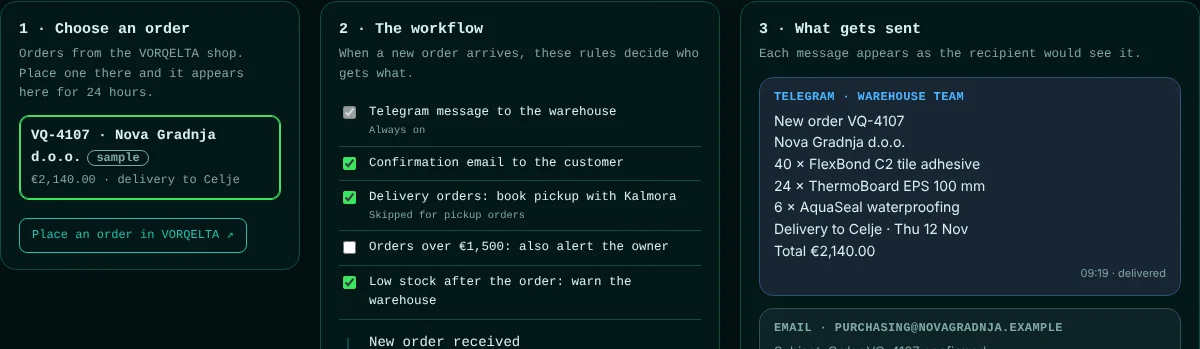
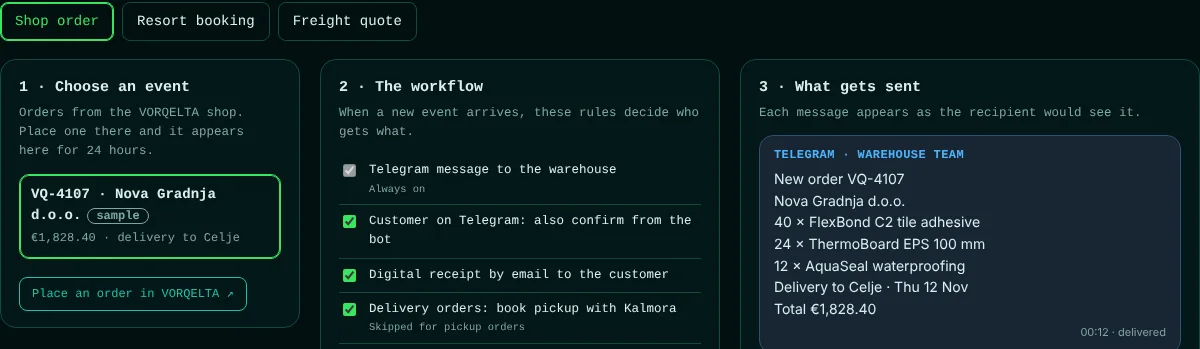
Smart Notifications: three event sources, website bookings and quotes in Connected

diff --git a/demos/order-notify/index.html b/demos/order-notify/index.html
@@ -1,8 +1,8 @@
 <!doctype html>
 <html lang="en"><head><meta charset="utf-8">
 <meta name="viewport" content="width=device-width,initial-scale=1,viewport-fit=cover">
-<title>Order → Notify · Concept demo · NB Digital Labs</title>
-<meta name="description" content="Concept demo of a business workflow: a new order triggers a Telegram message to the warehouse, an email to the customer and a pickup request to the freight partner. Fictional company, built by NB Digital Labs.">
+<title>Smart Notifications · Concept demo · NB Digital Labs</title>
+<meta name="description" content="Concept demo of event-based notifications: a new order, booking or quote request triggers the right messages by itself. Fictional companies, built by NB Digital Labs.">
 <style>
 :root{--bg:#02100f;--panel:#041a19;--line:#0f4a47;--txt:#d7f1ed;--dim:#7fa8a3;--g:#39e75f;--t:#19c3b0;--c:#22d3ee;--mono:"JetBrains Mono","SF Mono",Consolas,"Liberation Mono",monospace;--sans:system-ui,-apple-system,"Segoe UI",Roboto,Helvetica,Arial,sans-serif}
 *{box-sizing:border-box}html,body{margin:0}
@@ -28,57 +28,80 @@ ol.st{list-style:none;margin:0;padding:0;display:grid;gap:10px}ol.st li{color:va
 .note{color:var(--dim);font-size:12px;margin-top:20px}.foot{margin-top:24px}
 button.go{font:inherit;background:transparent;cursor:pointer}.out.tc{border-color:#2b5278;background:#182533}.out.tc h4{color:#4cb4ff}.ll>div{white-space:pre-wrap}
 .rc{background:#fff;color:#1c2226;border-radius:8px;padding:14px 16px;font-size:13px}.rh{display:flex;justify-content:space-between;gap:8px;flex-wrap:wrap;border-bottom:2px solid #D7263D;padding-bottom:6px;margin-bottom:8px}.rh span,.rm{color:#5c6770;white-space:pre-wrap}.rc table{width:100%;border-collapse:collapse;margin:8px 0}.rc th,.rc td{text-align:left;padding:4px 4px;border-bottom:1px solid #e4e8eb;font-size:12.5px}.rc td:nth-child(n+2),.rc th:nth-child(n+2){text-align:right;white-space:nowrap}.rt{text-align:right;margin:6px 0}.rt b{font-size:15px}.rf{margin-top:8px;color:#8a949b;font-size:11.5px}
+.tabs{display:flex;gap:8px;margin-bottom:18px;flex-wrap:wrap}.tabs button{background:transparent;border:1px solid var(--line);color:var(--txt);font:inherit;padding:8px 14px;border-radius:8px;cursor:pointer}.tabs button[aria-pressed=true]{border-color:var(--g);color:var(--g);box-shadow:0 0 0 1px var(--g) inset}
+.out.sc{border-style:dashed;border-color:#4a6a6c;background:#0b1c1e}.out.sc h4{color:var(--dim)}.kv{display:flex;justify-content:space-between;gap:10px;padding:3px 0;font-size:12.5px}.kv span{color:#5c6770}.kv b{text-align:right;font-weight:500}
 @media(prefers-reduced-motion:reduce){*{transition:none!important;animation:none!important}}
 </style></head>
 <body>
-<div class="bar"><span>Concept demo · fictional company · all data is sample data</span><span><a href="../../work.html">← Back to NB Digital Labs</a> · <a href="../vorqelta/">VORQELTA ↗</a> · <a href="../kalmora/">Kalmora ↗</a></span></div>
+<div class="bar"><span>Concept demo · fictional company · all data is sample data</span><span><a href="../../work.html">← Back to NB Digital Labs</a> · <a href="../aurevia/">Aurevia ↗</a> · <a href="../vorqelta/">VORQELTA ↗</a> · <a href="../kalmora/">Kalmora ↗</a></span></div>
 <div class="wrap">
-<h1>Order → Notify</h1>
-<p class="sub">A new order in the shop sets off a chain of messages by itself: the warehouse, the customer and the freight partner are informed in seconds, with no one typing anything.</p>
+<h1>Smart Notifications</h1>
+<p class="sub">Something happens in one of the systems and the right people are informed by themselves. Pick an event type and watch the same engine run a different set of rules: a shop order, a resort booking or a freight quote request.</p>
+<div class="tabs" role="group" aria-label="Event type"><button data-s="shop" aria-pressed="true">Shop order</button><button data-s="resort" aria-pressed="false">Resort booking</button><button data-s="freight" aria-pressed="false">Freight quote</button></div>
 <div class="grid">
-<div><section class="box"><h2>1 · Choose an order</h2><p>Orders from the VORQELTA shop. Place one there and it appears here for 24 hours.</p><div id="orders"></div><a class="go" href="../vorqelta/">Place an order in VORQELTA ↗</a></section></div>
-<div><section class="box"><h2>2 · The workflow</h2><p>When a new order arrives, these rules decide who gets what.</p>
-<label class="rule"><input type="checkbox" checked disabled><span>Telegram message to the warehouse<small>Always on</small></span></label>
-<label class="rule"><input type="checkbox" id="r-tc" checked><span>Customer on Telegram: also confirm from the bot</span></label>
-<label class="rule"><input type="checkbox" id="r-em" checked><span>Digital receipt by email to the customer</span></label>
-<label class="rule"><input type="checkbox" id="r-km" checked><span>Delivery orders: book pickup with Kalmora<small>Skipped for pickup orders</small></span></label>
-<label class="rule"><input type="checkbox" id="r-own" checked><span>Orders over €1,500: also alert the owner</span></label>
-<label class="rule"><input type="checkbox" id="r-low" checked><span>Low stock after the order: warn the warehouse</span></label>
+<div><section class="box"><h2>1 · Choose an event</h2><p id="p1b"></p><div id="orders"></div><a class="go" id="pl" href="#"></a></section></div>
+<div><section class="box"><h2>2 · The workflow</h2><p>When a new event arrives, these rules decide who gets what.</p>
+<div id="rules"></div>
 <div class="flow"><div class="rail"></div><div class="dot" id="dot"></div><ol class="st" id="steps"></ol></div><div class="log" id="log"></div>
 <button class="go" id="replay">↻ Replay</button></section></div>
 <div><section class="box"><h2>3 · What gets sent</h2><p>Each message appears as the recipient would see it.</p><div id="outs"></div></section></div>
 </div>
-<p class="note">Concept demo. Messages are simulated, nothing is sent and orders are kept for 24 hours in this browser only. VORQELTA is a fictional company.</p>
+<p class="note">Concept demo. Messages are simulated, nothing is sent and events are kept for 24 hours in this browser only. Aurevia, VORQELTA and Kalmora are fictional companies.</p>
 <div class="foot"><a class="go" href="../../work.html">← Go back</a></div>
 </div>
 <script>
-const $=s=>document.querySelector(s),eur=n=>'€'+Number(n).toLocaleString('en-US',{minimumFractionDigits:2,maximumFractionDigits:2});
-let FEED=null;try{FEED=JSON.parse(localStorage.getItem('vq-feed')||'null')}catch(e){}
-const SAMPLE={ref:'VQ-4107',co:'Nova Gradnja d.o.o.',em:'purchasing@novagradnja.example',nm:'Marko',city:'Celje',mode:'delivery',when:'Thu 12 Nov',total:1828.4,sub:1828.4,fee:0,km:'KM-3102',pal:3,lines:['40 × FlexBond C2 tile adhesive','24 × ThermoBoard EPS 100 mm','12 × AquaSeal waterproofing'],items:[{n:'FlexBond C2 tile adhesive',q:40,p:9.8,lt:392,deal:0},{n:'ThermoBoard EPS 100 mm',q:24,p:26.5,lt:572.4,deal:10},{n:'AquaSeal waterproofing',q:12,p:72,lt:864,deal:0}],t:Date.now(),sample:true};
-let orders=((FEED&&FEED.orders)||[]).filter(o=>Date.now()-o.t<864e5).slice(0,6);if(!orders.length)orders=[SAMPLE];
-const LOW=(FEED&&FEED.low)||['AquaSeal waterproofing · 22 left'];let cur=0,runId=0;
-const R=()=>({tc:$('#r-tc').checked,em:$('#r-em').checked,km:$('#r-km').checked,own:$('#r-own').checked,low:$('#r-low').checked});
+const $=s=>document.querySelector(s),eur=n=>'€'+Number(n).toLocaleString('en-US',{minimumFractionDigits:2,maximumFractionDigits:2}),H24=864e5;
+const J=k=>{try{return JSON.parse(localStorage.getItem(k)||'null')}catch(e){return null}};
+const FEED=J('vq-feed'),LOW=(FEED&&FEED.low)||['AquaSeal waterproofing · 22 left'];
 const hm=()=>new Date().toLocaleTimeString('en-GB',{hour:'2-digit',minute:'2-digit'});
 function el(tag,cls,txt){const e=document.createElement(tag);if(cls)e.className=cls;if(txt!=null)e.textContent=txt;return e}
-function msgs(o){const r=R(),m=[],ho=(o.mode==='pickup'?'Pickup':'Delivery to '+o.city)+' · '+o.when;
- m.push({k:'tg',step:'Telegram sent to the warehouse',h:'Telegram · Warehouse team',pre:'New order '+o.ref+'\n'+o.co,lines:o.lines,post:ho+'\nTotal '+eur(o.total)});
- if(r.tc)m.push({k:'tc',step:'Customer confirmed by the bot',h:'Telegram · Customer, from the bot',pre:'Hi '+(o.nm||'there')+'! Your order '+o.ref+' is confirmed.',lines:o.lines,post:ho+'\nTotal '+eur(o.total)+' excl. VAT\nThe full receipt is in your email.',link:o.mode==='delivery'});
- if(r.em)m.push({k:'em',step:'Digital receipt emailed to the customer',h:'Email · '+(o.em||'customer'),subj:'Your receipt for order '+o.ref});
- if(r.km&&o.mode==='delivery')m.push({k:'km',step:'Pickup booked with Kalmora ('+(o.km||'KM-…')+')',h:'Kalmora · Pickup request',b:'Reference '+(o.km||'KM-…')+'\nLjubljana → '+o.city+'\n'+(o.pal||1)+' pallet'+((o.pal||1)>1?'s':'')+' · building materials\nVORQELTA order '+o.ref,link:true});
- if(r.own&&o.total>=1500)m.push({k:'own',step:'Owner alerted (large order)',h:'Telegram · Owner',b:'Large order '+o.ref+': '+eur(o.total)+' from '+o.co});
- if(r.low&&LOW.length)m.push({k:'low',step:'Low stock warning sent',h:'Telegram · Warehouse team',b:'Low stock after '+o.ref+':\n'+LOW.slice(0,3).join('\n')});
- return m}
-function drawOrders(){const box=$('#orders');box.textContent='';orders.forEach((o,i)=>{const b=el('button','ord');b.setAttribute('aria-pressed',i===cur);const t=el('b',null,o.ref+' · '+o.co);if(o.sample){t.append(el('span','tag s','sample'))}b.append(t,el('span',null,eur(o.total)+' · '+(o.mode==='pickup'?'pickup':'delivery to '+o.city)));b.onclick=()=>{cur=i;drawOrders();play()};box.append(b)})}
-function play(){const id=++runId,o=orders[cur],ms=msgs(o),st=$('#steps'),outs=$('#outs'),dot=$('#dot');st.textContent='';outs.textContent='';$('#log').textContent='';dot.classList.remove('on');
- const seq=[{step:'New order received',d:o.ref+' · '+eur(o.total)},{step:'Rules checked',d:ms.length+' of 6 rules matched'}].concat(ms.map(m=>({step:m.step,m})));
- seq.forEach((s,i)=>setTimeout(()=>{if(id!==runId)return;const li=el('li',null,s.step);li.append(el('span','d',s.d||'sent '+hm()));st.append(li);dot.classList.add('on');dot.style.top=(li.offsetTop+4)+'px';const l=el('div');l.append(el('b',null,hm()+' '),document.createTextNode(s.step));$('#log').prepend(l);
-  if(s.m)out(s.m)},i*750+200))}
-function lineList(lines,max){const w=el('div','ll'),rest=el('div');rest.style.display='none';lines.forEach((l,i)=>(i<max?w:rest).append(el('div',null,l)));if(lines.length>max){const b=el('button','go','Show all '+lines.length+' lines');b.onclick=()=>{const open=rest.style.display==='none';rest.style.display=open?'block':'none';b.textContent=open?'Show fewer':'Show all '+lines.length+' lines'};w.append(rest,b)}return w}
+const iso=n=>{const d=new Date();d.setDate(d.getDate()+n);return d.toISOString().slice(0,10)};
+const SAMPLE={shop:{ref:'VQ-4107',co:'Nova Gradnja d.o.o.',em:'purchasing@novagradnja.example',nm:'Marko',city:'Celje',mode:'delivery',when:'Thu 12 Nov',total:1828.4,sub:1828.4,fee:0,km:'KM-3102',pal:3,lines:['40 × FlexBond C2 tile adhesive','24 × ThermoBoard EPS 100 mm','12 × AquaSeal waterproofing'],items:[{n:'FlexBond C2 tile adhesive',q:40,p:9.8,lt:392,deal:0},{n:'ThermoBoard EPS 100 mm',q:24,p:26.5,lt:572.4,deal:10},{n:'AquaSeal waterproofing',q:12,p:72,lt:864,deal:0}],t:Date.now(),sample:true},
+ resort:{ref:'AUR-4821',name:'Ana Petrović',room:'Suite Vigna',dates:'This weekend',guests:'2 guests',ch:'Telegram',src:'bot',em:'ana@example.com',t:Date.now(),sample:true},
+ freight:{ref:'KM-Q-45321',co:'Hribar Trans d.o.o.',nm:'Marko',svc:'Road freight',fr:'Belgrade',to:'Munich',dt:iso(3),sl:'09:00–11:00',p:1850,t:Date.now(),sample:true}};
+const META={shop:{h:'Orders from the VORQELTA shop. Place one there and it appears here for 24 hours.',a:['Place an order in VORQELTA ↗','../vorqelta/']},resort:{h:'Bookings from the Aurevia concierge and the Aurevia website form, kept for 24 hours.',a:['Book at Aurevia ↗','../aurevia-concierge/']},freight:{h:'Quote requests from the Kalmora website, kept for 24 hours.',a:['Request a quote on Kalmora ↗','../kalmora/']}};
+const RULES={shop:[['tg','Telegram message to the warehouse','Always on',1],['tc','Customer on Telegram: also confirm from the bot'],['em','Digital receipt by email to the customer'],['km','Delivery orders: book pickup with Kalmora','Skipped for pickup orders'],['own','Orders over €1,500: also alert the owner'],['low','Low stock after the order: warn the warehouse']],
+ resort:[['rc','Telegram message to reception','Always on',1],['gb','Booked in the chat: confirm from the bot','Skipped for website form bookings'],['em','Booking confirmation by email to the guest'],['hk','Family or large stays: heads-up to housekeeping','Casetta Famiglia or 5+ guests'],['rm','Reminder the day before arrival','Scheduled message']],
+ freight:[['dp','Telegram message to the dispatcher','Always on',1],['em','Request received: email to the customer'],['ur','Pickup within 2 days: mark as urgent'],['cs','Cross-border route: alert the customs desk','Checks the route'],['fu','Follow-up if the quote is not accepted in 24 h','Scheduled message']]};
+const ON={shop:{},resort:{},freight:{}},CT={belgrade:'RS','novi sad':'RS',niš:'RS',munich:'DE',berlin:'DE',hamburg:'DE',vienna:'AT',graz:'AT',ljubljana:'SI',maribor:'SI',zagreb:'HR',prague:'CZ',thessaloniki:'GR',athens:'GR'};
+let src='shop',cur=0,runId=0,orders=[];
+const on=id=>{const r=RULES[src].find(x=>x[0]===id);return r&&(r[3]||ON[src][id]!==false)};
+function load(){const L=src==='shop'?((FEED&&FEED.orders)||[]).filter(o=>Date.now()-o.t<H24).slice(0,6):src==='resort'?(J('av-events')||[]).filter(e=>Date.now()-e.t<H24).slice(0,6):(J('kalmora_demo_requests')||[]).filter(q=>q.t&&Date.now()-q.t<H24).slice(0,6);orders=L.length?L:[SAMPLE[src]]}
+function lineList(lines,max){const w=el('div','ll'),rest=el('div');rest.style.display='none';lines.forEach((l,i)=>(i<max?w:rest).append(el('div',null,l)));if(lines.length>max){const b=el('button','go','Show all '+lines.length+' lines');b.onclick=()=>{const o=rest.style.display==='none';rest.style.display=o?'block':'none';b.textContent=o?'Show fewer':'Show all '+lines.length+' lines'};w.append(rest,b)}return w}
+function card(title,sub,meta,rows,foot){const d=el('div','rc'),hd=el('div','rh');hd.append(el('b',null,title),el('span',null,sub));d.append(hd,el('div','rm',meta));rows.forEach(r=>{const x=el('div','kv');x.append(el('span',null,r[0]),el('b',null,r[1]));d.append(x)});d.append(el('div','rf',foot||'Demo only · not a fiscal document.'));return d}
 function receipt(o){const d=el('div','rc'),hd=el('div','rh');hd.append(el('b',null,'VORQELTA Building Materials'),el('span',null,'Ljubljana · digital receipt'));d.append(hd,el('div','rm','Order '+o.ref+' · '+new Date(o.t).toLocaleDateString('en-GB',{day:'numeric',month:'short',year:'numeric'})+'\nBilled to: '+o.co+(o.nm?' · '+o.nm:'')));
  const t=el('table');t.innerHTML='<tr><th>Item</th><th>Qty</th><th>Price</th><th>Amount</th></tr>';(o.items||o.lines.map(l=>({n:l,q:'',p:null,lt:null,deal:0}))).forEach(i=>{const tr=el('tr');[i.n+(i.deal?' (−'+i.deal+'%)':''),i.q,i.p!=null?eur(i.p):'',i.lt!=null?eur(i.lt):''].forEach(v=>tr.append(el('td',null,v)));t.append(tr)});d.append(t);
  const tt=el('div','rt');if(o.sub!=null)tt.append(el('div',null,'Goods '+eur(o.sub)),el('div',null,(o.mode==='pickup'?'Pickup':'Delivery')+' '+(o.fee?eur(o.fee):'Free')));tt.append(el('b',null,'Total excl. VAT '+eur(o.total)));d.append(tt,el('div','rm',(o.mode==='pickup'?'Pickup':'Delivery to '+o.city)+' · '+o.when),el('div','rf','Demo only · not a fiscal document. VAT is applied on the final invoice.'));return d}
-function out(m){const d=el('div','out '+m.k);d.append(el('h4',null,m.h));
- if(m.k==='em'){d.append(el('div','h','Subject: '+m.subj),receipt(orders[cur]))}else{if(m.pre)d.append(el('pre',null,m.pre));if(m.lines)d.append(lineList(m.lines,4));if(m.post)d.append(el('pre',null,m.post));if(m.b)d.append(el('pre',null,m.b))}
- if(m.link){const a=el('a','go','Track order in Kalmora ↗');a.href='../kalmora/#track';a.onclick=()=>{try{localStorage.setItem('km-prefill',orders[cur].km||'')}catch(e){}};d.append(a)}d.append(el('span','tm',hm()+' · delivered'));$('#outs').append(d)}
-['em','tc','km','own','low'].forEach(k=>$('#r-'+k).onchange=play);$('#replay').onclick=play;drawOrders();play();
+function msgsShop(o){const m=[],ho=(o.mode==='pickup'?'Pickup':'Delivery to '+o.city)+' · '+o.when;
+ m.push({k:'tg',step:'Telegram sent to the warehouse',h:'Telegram · Warehouse team',pre:'New order '+o.ref+'\n'+o.co,lines:o.lines,post:ho+'\nTotal '+eur(o.total)});
+ if(on('tc'))m.push({k:'tc',step:'Customer confirmed by the bot',h:'Telegram · Customer, from the bot',pre:'Hi '+(o.nm||'there')+'! Your order '+o.ref+' is confirmed.',lines:o.lines,post:ho+'\nTotal '+eur(o.total)+' excl. VAT\nThe full receipt is in your email.',link:o.mode==='delivery'});
+ if(on('em'))m.push({k:'em',step:'Digital receipt emailed to the customer',h:'Email · '+(o.em||'customer'),subj:'Your receipt for order '+o.ref,card:()=>receipt(o)});
+ if(on('km')&&o.mode==='delivery')m.push({k:'km',step:'Pickup booked with Kalmora ('+(o.km||'KM-…')+')',h:'Kalmora · Pickup request',b:'Reference '+(o.km||'KM-…')+'\nLjubljana → '+o.city+'\n'+(o.pal||1)+' pallet'+((o.pal||1)>1?'s':'')+' · building materials\nVORQELTA order '+o.ref,link:true});
+ if(on('own')&&o.total>=1500)m.push({k:'own',step:'Owner alerted (large order)',h:'Telegram · Owner',b:'Large order '+o.ref+': '+eur(o.total)+' from '+o.co});
+ if(on('low')&&LOW.length)m.push({k:'low',step:'Low stock warning sent',h:'Telegram · Warehouse team',b:'Low stock after '+o.ref+':\n'+LOW.slice(0,3).join('\n')});return m}
+function msgsResort(e){const m=[],via=e.src==='form'?'website form':e.ch,fn=(e.name||'guest').split(' ')[0],stay=e.room+' · '+e.dates+' · '+e.guests;
+ m.push({k:'tg',step:'Telegram sent to reception',h:'Telegram · Reception',b:'New booking '+e.ref+'\n'+e.name+'\n'+stay+'\nVia '+via});
+ if(on('gb')&&e.src!=='form')m.push({k:'tc',step:'Guest confirmed by the bot',h:e.ch+' · Guest, from the bot',b:'Hi '+fn+'! Your stay is booked.\nReference '+e.ref+'\n'+e.room+', '+e.dates+', '+e.guests+'\nCheck-in from 15:00. Reply here to change anything.'});
+ if(on('em'))m.push({k:'em',step:'Confirmation emailed to the guest',h:'Email · '+(e.em||'guest'),subj:'Your stay at Aurevia is confirmed · '+e.ref,card:()=>card('Aurevia Family Resort','Tuscany · booking confirmation','Reference '+e.ref+' · '+new Date(e.t).toLocaleDateString('en-GB',{day:'numeric',month:'short',year:'numeric'}),[['Guest',e.name],['Room',e.room],['Stay',e.dates],['Guests',e.guests],['Check-in','from 15:00 · check-out by 11:00']],'Demo only · sample booking, no payment taken.')});
+ if(on('hk')&&(/Casetta/.test(e.room)||/5\+/.test(e.guests)))m.push({k:'low',step:'Housekeeping alerted',h:'Telegram · Housekeeping',b:'Prepare '+e.room+' for '+e.dates+'\nLarger stay ('+e.guests+'): extra beds or cots may be needed.'});
+ if(on('rm'))m.push({k:'sc',step:'Arrival reminder scheduled',h:'Scheduled · day before arrival',b:'To '+fn+': "Welcome tomorrow! Check-in is from 15:00. Need directions or a late arrival? Just reply here."'});return m}
+function msgsFreight(q){const m=[],who=q.co||q.nm||'Customer',cs=(CT[(q.fr||'').toLowerCase()]||'a')!==(CT[(q.to||'').toLowerCase()]||'b'),days=q.dt?Math.round((new Date(q.dt)-new Date(iso(0)))/864e5):9;
+ m.push({k:'tg',step:'Telegram sent to the dispatcher',h:'Telegram · Dispatcher',b:'New quote request '+q.ref+'\n'+who+'\n'+q.svc+'\n'+q.fr+' → '+q.to+'\nPickup '+q.dt+(q.sl?' · '+q.sl:'')+(typeof q.p==='number'?'\nEstimate '+eur(q.p):'')});
+ if(on('em'))m.push({k:'em',step:'Receipt of request emailed',h:'Email · customer',subj:'We received your request '+q.ref,card:()=>card('Kalmora Freight & Logistics','request received','Reference '+q.ref,[['Service',q.svc],['Route',q.fr+' → '+q.to],['Pickup',q.dt+(q.sl?' · '+q.sl:'')],['Estimate',typeof q.p==='number'?eur(q.p)+' (to be confirmed)':'to be confirmed'],['Next step','We reply with a confirmed price within 2 hours']],'Demo only · sample request, nothing is booked.')});
+ if(on('ur')&&days<=2)m.push({k:'own',step:'Marked as urgent',h:'Telegram · Dispatcher, priority',b:'URGENT pickup '+q.dt+' · '+q.ref+'\nAssign a driver today.'});
+ if(on('cs')&&cs)m.push({k:'low',step:'Customs desk alerted',h:'Telegram · Customs desk',b:'Cross-border route '+q.fr+' → '+q.to+' for '+q.ref+'\nPrepare the customs documents.'});
+ if(on('fu'))m.push({k:'sc',step:'Follow-up scheduled',h:'Scheduled · in 24 hours',b:'To the customer, if the quote is not accepted: "Still need this pickup? Reply YES and we book it."'});return m}
+const MSGS={shop:msgsShop,resort:msgsResort,freight:msgsFreight};
+function item(o){return src==='shop'?[o.ref+' · '+o.co,eur(o.total)+' · '+(o.mode==='pickup'?'pickup':'delivery to '+o.city)]:src==='resort'?[o.ref+' · '+o.name,o.room+' · '+(o.src==='form'?'website form':o.ch)]:[o.ref+' · '+(o.co||o.nm||'customer'),o.fr+' → '+o.to+' · '+o.dt]}
+function drawOrders(){const box=$('#orders');box.textContent='';orders.forEach((o,i)=>{const b=el('button','ord'),it=item(o),t=el('b',null,it[0]);if(o.sample)t.append(el('span','tag s','sample'));b.setAttribute('aria-pressed',i===cur);b.append(t,el('span',null,it[1]));b.onclick=()=>{cur=i;drawOrders();play()};box.append(b)})}
+function drawRules(){const box=$('#rules');box.textContent='';RULES[src].forEach(r=>{const l=el('label','rule'),c=el('input');c.type='checkbox';c.checked=!!r[3]||ON[src][r[0]]!==false;c.disabled=!!r[3];c.onchange=()=>{ON[src][r[0]]=c.checked;play()};const s=el('span',null,r[1]);if(r[2])s.append(el('small',null,r[2]));l.append(c,s);box.append(l)})}
+function play(){const id=++runId,o=orders[cur],ms=MSGS[src](o),st=$('#steps'),outs=$('#outs'),dot=$('#dot');st.textContent='';outs.textContent='';$('#log').textContent='';dot.classList.remove('on');
+ const lab=src==='shop'?'New order received':src==='resort'?'New booking received':'New quote request received',seq=[{step:lab,d:o.ref},{step:'Rules checked',d:ms.length+' of '+RULES[src].length+' rules matched'}].concat(ms.map(m=>({step:m.step,m})));
+ seq.forEach((s,i)=>setTimeout(()=>{if(id!==runId)return;const li=el('li',null,s.step);li.append(el('span','d',s.d||(s.m.k==='sc'?'scheduled':'sent '+hm())));st.append(li);dot.classList.add('on');dot.style.top=(li.offsetTop+4)+'px';const l=el('div');l.append(el('b',null,hm()+' '),document.createTextNode(s.step));$('#log').prepend(l);if(s.m)out(s.m)},i*750+200))}
+function out(m){const d=el('div','out '+m.k);d.append(el('h4',null,m.h));if(m.subj)d.append(el('div','h','Subject: '+m.subj));
+ if(m.card)d.append(m.card());else{if(m.pre)d.append(el('pre',null,m.pre));if(m.lines)d.append(lineList(m.lines,4));if(m.post)d.append(el('pre',null,m.post));if(m.b)d.append(el('pre',null,m.b))}
+ if(m.link){const a=el('a','go','Track order in Kalmora ↗');a.href='../kalmora/#track';a.onclick=()=>{try{localStorage.setItem('km-prefill',orders[cur].km||'')}catch(e){}};d.append(a)}d.append(el('span','tm',m.k==='sc'?'queued · sends automatically':hm()+' · delivered'));$('#outs').append(d)}
+function setSrc(s){src=s;cur=0;document.querySelectorAll('.tabs button').forEach(b=>b.setAttribute('aria-pressed',b.dataset.s===s));load();$('#p1b').textContent=META[s].h;const a=$('#pl');a.textContent=META[s].a[0];a.href=META[s].a[1];drawOrders();drawRules();play()}
+document.querySelectorAll('.tabs button').forEach(b=>b.onclick=()=>setSrc(b.dataset.s));$('#replay').onclick=play;
+const q0=new URLSearchParams(location.search).get('src');setSrc(['shop','resort','freight'].includes(q0)?q0:'shop');
 </script></body></html>

diff --git a/work.html b/work.html
@@ -188,7 +188,7 @@ body:before { z-index:1 !important; }
 </style>
 
 <script>
-const catalog={web:{name:'Web & Design',title:'WEB & DESIGN.',accent:'#70ff36',desc:'Digital experiences shaped around your brand, audience and business goals. Choose a project concept, explore the possibilities, then build a focused brief.',concepts:[['HOSPITALITY','Hotels, resorts, restaurants, cafés, apartments and tourism experiences — built by someone who knows the guest’s side from the inside.','','HOSPITALITY & TOURISM'],['BUSINESS','Corporate websites, company profiles, portfolios and service businesses.'],['DIGITAL','E-commerce, landing pages, online platforms and content-led websites.']],demos:[['Aurevia · Family Resort','HOSPITALITY','A small family-run resort in Tuscany: rooms, experiences and a full five-step booking flow. Fictional concept, fully interactive.','demos/aurevia/','assets/work/demo-aurevia.webp'],['Kalmora · Freight & Logistics','BUSINESS','A freight and logistics company: services, shipment tracking, a five-step quote wizard and a staff dashboard with role-based access. Fictional, fully interactive.','demos/kalmora/','assets/work/demo-kalmora.webp'],['Aurevia Pantry · Online Shop','DIGITAL','A small online shop: catalogue, cart, checkout, order tracking and a shop admin with stock. Fictional, fully interactive, no real payment.','demos/pantry/','assets/work/demo-pantry.webp']],features:['Responsive website','Multi-language support','Photo gallery / media library','Online menu / catalogue','Booking or reservation enquiry','Room / service detail pages','Contact form & map','CMS / editable content','SEO foundations','E-commerce / payments','Custom landing pages','Accessibility refinements']},app:{name:'App & Development',title:'APP & DEVELOPMENT.',accent:'#13e7df',desc:'Purpose-built digital products, dashboards and practical tools. Choose the kind of application you need and shape only the functions that belong to it.',concepts:[['BUSINESS APPS','Internal tools, client portals and operational applications.'],['DASHBOARDS','Analytics, reporting, monitoring and data visualisation.'],['DIGITAL TOOLS','Calculators, converters, configurators and custom utilities.']],demos:[['Orders & Inventory','BUSINESS APP','A building-materials supplier: order wizard with delivery or pickup, live stock levels, order statuses and an internal system with roles. Fictional, sample data.','demos/vorqelta/','assets/work/demo-orders.webp'],['Aurevia Operations','DASHBOARD','The back office of Aurevia Family Resort: rooms, occupancy, bookings and revenue at a glance. Fictional, sample data.','demos/aurevia-ops/','assets/work/demo-aurevia-ops.webp'],['Ultimate Calculator','DIGITAL TOOL','A multi-tab calculator with fitness tools, installable as an app. A real, working tool, not a mock-up.','https://ultimate-calculator-88.netlify.app/','assets/work/demo-calculator.webp','DIGITAL TOOL / LIVE TOOL','OPEN LIVE TOOL ↗']],features:['User accounts & authentication','Admin dashboard','Analytics & reports','Data tables and filters','Search & advanced filtering','Client / user portal','Calculator or converter logic','Database integration','API integrations','Export PDF / CSV','Role-based permissions','Responsive interface']},automation:{name:'Automation & Bots',title:'AUTOMATION & BOTS.',accent:'#8dff4d',desc:'Connect tools, remove repetitive steps and keep information moving. Choose the automation concept that fits your workflow and tailor the integrations.',concepts:[['MESSAGING BOTS','Telegram, WhatsApp and conversational assistants.'],['BUSINESS WORKFLOWS','Lead routing, approvals, task flows and repetitive processes.'],['SYSTEM INTEGRATIONS','Connect websites, APIs, databases and notification channels.']],demos:[['Aurevia Concierge','MESSAGING BOTS','A booking concierge for a resort, on Telegram, WhatsApp and website chat, connected to the back office. Fictional, sample data.','demos/aurevia-concierge/','assets/work/demo-concierge-telegram.webp,assets/work/demo-concierge-whatsapp.webp,assets/work/demo-concierge-web.webp'],['Order → Notify','BUSINESS WORKFLOWS','A new order in a wholesale shop triggers messages to the warehouse, the customer and the freight partner. Fictional, sample data.','demos/order-notify/','assets/work/demo-order-notify.webp'],['Connected','SYSTEM INTEGRATIONS','A website, a chat bot, a back office, a shop and a freight partner exchanging events, with the message behind every connection. Fictional, sample data.','demos/connected/','assets/work/demo-connected.webp']],features:['Telegram bot','WhatsApp integration','Website chatbot','Lead capture & routing','Automated email notifications','Telegram notifications','CRM integration','API connections','Database synchronisation','Scheduled workflows','Approval / task automation','Conversation handover']}};
+const catalog={web:{name:'Web & Design',title:'WEB & DESIGN.',accent:'#70ff36',desc:'Digital experiences shaped around your brand, audience and business goals. Choose a project concept, explore the possibilities, then build a focused brief.',concepts:[['HOSPITALITY','Hotels, resorts, restaurants, cafés, apartments and tourism experiences — built by someone who knows the guest’s side from the inside.','','HOSPITALITY & TOURISM'],['BUSINESS','Corporate websites, company profiles, portfolios and service businesses.'],['DIGITAL','E-commerce, landing pages, online platforms and content-led websites.']],demos:[['Aurevia · Family Resort','HOSPITALITY','A small family-run resort in Tuscany: rooms, experiences and a full five-step booking flow. Fictional concept, fully interactive.','demos/aurevia/','assets/work/demo-aurevia.webp'],['Kalmora · Freight & Logistics','BUSINESS','A freight and logistics company: services, shipment tracking, a five-step quote wizard and a staff dashboard with role-based access. Fictional, fully interactive.','demos/kalmora/','assets/work/demo-kalmora.webp'],['Aurevia Pantry · Online Shop','DIGITAL','A small online shop: catalogue, cart, checkout, order tracking and a shop admin with stock. Fictional, fully interactive, no real payment.','demos/pantry/','assets/work/demo-pantry.webp']],features:['Responsive website','Multi-language support','Photo gallery / media library','Online menu / catalogue','Booking or reservation enquiry','Room / service detail pages','Contact form & map','CMS / editable content','SEO foundations','E-commerce / payments','Custom landing pages','Accessibility refinements']},app:{name:'App & Development',title:'APP & DEVELOPMENT.',accent:'#13e7df',desc:'Purpose-built digital products, dashboards and practical tools. Choose the kind of application you need and shape only the functions that belong to it.',concepts:[['BUSINESS APPS','Internal tools, client portals and operational applications.'],['DASHBOARDS','Analytics, reporting, monitoring and data visualisation.'],['DIGITAL TOOLS','Calculators, converters, configurators and custom utilities.']],demos:[['Orders & Inventory','BUSINESS APP','A building-materials supplier: order wizard with delivery or pickup, live stock levels, order statuses and an internal system with roles. Fictional, sample data.','demos/vorqelta/','assets/work/demo-orders.webp'],['Aurevia Operations','DASHBOARD','The back office of Aurevia Family Resort: rooms, occupancy, bookings and revenue at a glance. Fictional, sample data.','demos/aurevia-ops/','assets/work/demo-aurevia-ops.webp'],['Ultimate Calculator','DIGITAL TOOL','A multi-tab calculator with fitness tools, installable as an app. A real, working tool, not a mock-up.','https://ultimate-calculator-88.netlify.app/','assets/work/demo-calculator.webp','DIGITAL TOOL / LIVE TOOL','OPEN LIVE TOOL ↗']],features:['User accounts & authentication','Admin dashboard','Analytics & reports','Data tables and filters','Search & advanced filtering','Client / user portal','Calculator or converter logic','Database integration','API integrations','Export PDF / CSV','Role-based permissions','Responsive interface']},automation:{name:'Automation & Bots',title:'AUTOMATION & BOTS.',accent:'#8dff4d',desc:'Connect tools, remove repetitive steps and keep information moving. Choose the automation concept that fits your workflow and tailor the integrations.',concepts:[['MESSAGING BOTS','Telegram, WhatsApp and conversational assistants.'],['BUSINESS WORKFLOWS','Lead routing, approvals, task flows and repetitive processes.'],['SYSTEM INTEGRATIONS','Connect websites, APIs, databases and notification channels.']],demos:[['Aurevia Concierge','MESSAGING BOTS','A booking concierge for a resort, on Telegram, WhatsApp and website chat, connected to the back office. Fictional, sample data.','demos/aurevia-concierge/','assets/work/demo-concierge-telegram.webp,assets/work/demo-concierge-whatsapp.webp,assets/work/demo-concierge-web.webp'],['Smart Notifications','BUSINESS WORKFLOWS','Orders, bookings and quote requests trigger the right messages by themselves: Telegram, email and scheduled reminders. Fictional, sample data.','demos/order-notify/','assets/work/demo-order-notify.webp'],['Connected','SYSTEM INTEGRATIONS','A website, a chat bot, a back office, a shop and a freight partner exchanging events, with the message behind every connection. Fictional, sample data.','demos/connected/','assets/work/demo-connected.webp']],features:['Telegram bot','WhatsApp integration','Website chatbot','Lead capture & routing','Automated email notifications','Telegram notifications','CRM integration','API connections','Database synchronisation','Scheduled workflows','Approval / task automation','Conversation handover']}};
 const subtypeMap={web:{HOSPITALITY:['Hotel Website','Resort Website','Restaurant Website','Café / Bar Website','Apartments / Villas Website','Tours & Experiences Website'],BUSINESS:['Corporate Website','Company Profile','Portfolio Website','Service Business Website'],DIGITAL:['E-commerce Store','Landing Page','Online Platform','Digital Experience']},app:{'BUSINESS APPS':['Internal Business App','Client Portal','Operations App'],'DASHBOARDS':['Analytics Dashboard','Operations Dashboard','Reporting Workspace'],'DIGITAL TOOLS':['Calculator / Converter','Configurator','Custom Web Application']},automation:{'MESSAGING BOTS':['Telegram Bot','WhatsApp Bot','Website Chatbot'],'BUSINESS WORKFLOWS':['Lead Routing','Booking / Enquiry Workflow','Approval & Task Automation'],'SYSTEM INTEGRATIONS':['API Integration','Database Synchronisation','Notifications System']}};
 const subtypeFeatures={
 web:{

diff --git a/demos/connected/index.html b/demos/connected/index.html
@@ -37,7 +37,7 @@ ul.act{list-style:none;margin:0;padding:0}ul.act li{padding:7px 0;border-bottom:
 </div>
 <script>
 const $=s=>document.querySelector(s),J=k=>{try{return JSON.parse(localStorage.getItem(k)||'null')}catch(e){return null}};
-const N={site:{x:20,y:30,t:'Aurevia website',s:'guest visits',c:'#A9B08F',u:'../aurevia/',d:'The resort website, with a concierge chat button.'},bot:{x:20,y:135,t:'Concierge bot',s:'chat channels',c:'#A9B08F',u:'../aurevia-concierge/',d:'Answers guests and takes bookings.'},ops:{x:305,y:135,t:'Aurevia Operations',s:'back office',c:'#A9B08F',u:'../aurevia-ops/',d:'Bookings, rooms and revenue for the resort team.'},shop:{x:20,y:250,t:'VORQELTA shop',s:'orders and stock',c:'#D7263D',u:'../vorqelta/',d:'A wholesale shop with its own staff area.'},notify:{x:305,y:250,t:'Order → Notify',s:'workflow',c:'#22d3ee',u:'../order-notify/',d:'Turns every order into messages and a pickup request.'},msgs:{x:590,y:30,t:'Telegram & email',s:'notifications',c:'#4cb4ff',u:'../order-notify/',d:'Messages to the warehouse, the customer and the owner.'},kal:{x:590,y:250,t:'Kalmora',s:'freight partner',c:'#F2A900',u:'../kalmora/',d:'Books pickups and tracks every shipment.'}};
+const N={site:{x:20,y:30,t:'Aurevia website',s:'guest visits',c:'#A9B08F',u:'../aurevia/',d:'The resort website, with a concierge chat button.'},bot:{x:20,y:135,t:'Concierge bot',s:'chat channels',c:'#A9B08F',u:'../aurevia-concierge/',d:'Answers guests and takes bookings.'},ops:{x:305,y:135,t:'Aurevia Operations',s:'back office',c:'#A9B08F',u:'../aurevia-ops/',d:'Bookings, rooms and revenue for the resort team.'},shop:{x:20,y:250,t:'VORQELTA shop',s:'orders and stock',c:'#D7263D',u:'../vorqelta/',d:'A wholesale shop with its own staff area.'},notify:{x:305,y:250,t:'Notify workflow',s:'smart notifications',c:'#22d3ee',u:'../order-notify/',d:'Turns orders, bookings and quote requests into the right messages.'},msgs:{x:590,y:30,t:'Telegram & email',s:'notifications',c:'#4cb4ff',u:'../order-notify/',d:'Messages to the warehouse, the customer and the owner.'},kal:{x:590,y:250,t:'Kalmora',s:'freight partner',c:'#F2A900',u:'../kalmora/',d:'Books pickups and tracks every shipment.'}};
 const L=[{id:'l1',d:'M95,82 L95,135',lx:104,ly:114,ev:'chat.opened',from:'site',to:'bot'},{id:'l2',d:'M170,161 L305,161',lx:196,ly:152,ev:'booking.created',from:'bot',to:'ops'},{id:'l3',d:'M95,250 L95,302 L95,302 M170,276 L305,276',lx:196,ly:267,ev:'order.created',from:'shop',to:'notify'},{id:'l4',d:'M455,276 L590,276',lx:476,ly:267,ev:'pickup.requested',from:'notify',to:'kal'},{id:'l5',d:'M455,262 C520,262 520,56 590,56',lx:500,ly:150,ev:'message.sent',from:'notify',to:'msgs'},{id:'l6',d:'M665,302 C665,380 95,380 95,302',lx:300,ly:372,ev:'shipment.status',from:'kal',to:'shop',dash:1}];
 L[2].d='M170,276 L305,276';
 const DESC={l1:'A guest opens the chat on the website.',l2:'The bot creates a booking and the resort back office receives it.',l3:'A new order in the shop starts the workflow.',l4:'For delivery orders the workflow books a pickup with the freight partner.',l5:'The workflow sends the messages to the people involved.',l6:'The freight partner reports the status back to the shop.'};

diff --git a/demos/aurevia/index.html b/demos/aurevia/index.html
@@ -119,7 +119,7 @@ function exs(){$('#exopts').innerHTML=Object.entries(X).map(([k,x])=>`<label cla
 function review(){const{t,ex,n,g}=price(),r=R[S.room];$('#rev').innerHTML=`<p><b>${r.n}</b> — ${n} ${n>1?L.nights:L.night}, ${g} ${L.guests}</p><p>${$('#ci').value} → ${$('#co').value}</p><p>${L.extras}: ${ex.length?ex.join(', '):L.none}</p><p><b>${L.total}: ${E.format(t)}</b> <small>(sample rates)</small></p><p>${$('#nm').value} · ${$('#em').value}</p>`}
 function upd(){sum();if(step===2)rooms()}
 function go(n){step=n;$$('.panel').forEach(p=>p.classList.toggle('on',+p.dataset.s===n));$$('#steps li').forEach((li,i)=>{li.classList.toggle('on',i+1===n);li.classList.toggle('done',i+1<n)});$('#err').textContent='';$('#prev').style.visibility=n===1||n===6?'hidden':'visible';$('#nav').style.display=n===6?'none':'flex';$('#next').textContent=n===5?L.send:L.next;if(n===2)rooms();if(n===3)exs();if(n===5)review();sum()}
-$('#next').onclick=()=>{let e='';if(step===1&&!nights())e=L.e1;if(step===2&&!S.room)e=L.e2;if(step===4&&(!$('#nm').value.trim()||!/^\S+@\S+\.\S+$/.test($('#em').value)))e=L.e4;if(e){$('#err').textContent=e;return}if(step===5){try{const pr=price(),ev=JSON.parse(localStorage.getItem('av-events')||'[]');ev.unshift({ref:'AUR-'+(1000+Math.floor(Math.random()*9000)),name:$('#nm').value.trim(),room:R[S.room].n,dates:$('#ci').value+' → '+$('#co').value,guests:pr.g+' guests',ch:'website form',src:'form',t:Date.now()});localStorage.setItem('av-events',JSON.stringify(ev.slice(0,20)))}catch(e){}$('#okt').textContent=L.thanks+', '+$('#nm').value.split(' ')[0]+'!';$('#okp').textContent=L.done;go(6);return}go(step+1)};
+$('#next').onclick=()=>{let e='';if(step===1&&!nights())e=L.e1;if(step===2&&!S.room)e=L.e2;if(step===4&&(!$('#nm').value.trim()||!/^\S+@\S+\.\S+$/.test($('#em').value)))e=L.e4;if(e){$('#err').textContent=e;return}if(step===5){try{const pr=price(),ev=JSON.parse(localStorage.getItem('av-events')||'[]');ev.unshift({ref:'AUR-'+(1000+Math.floor(Math.random()*9000)),name:$('#nm').value.trim(),em:$('#em').value.trim(),room:R[S.room].n,dates:$('#ci').value+' → '+$('#co').value,guests:pr.g+' guests',ch:'website form',src:'form',t:Date.now()});localStorage.setItem('av-events',JSON.stringify(ev.slice(0,20)))}catch(e){}$('#okt').textContent=L.thanks+', '+$('#nm').value.split(' ')[0]+'!';$('#okp').textContent=L.done;go(6);return}go(step+1)};
 $('#prev').onclick=()=>go(step-1);$('#again').onclick=()=>{S.room=null;S.ex={};['ci','co','nm','em','ms'].forEach(i=>$('#'+i).value='');go(1)};
 $$('[data-pick]').forEach(b=>b.onclick=()=>{S.room=b.dataset.pick;go(1);$('#book').scrollIntoView({behavior:'smooth'});sum()});
 $('#ad').onchange=$('#ch').onchange=()=>{if(S.room&&guests()>R[S.room].max)S.room=null;upd()};go(1);
